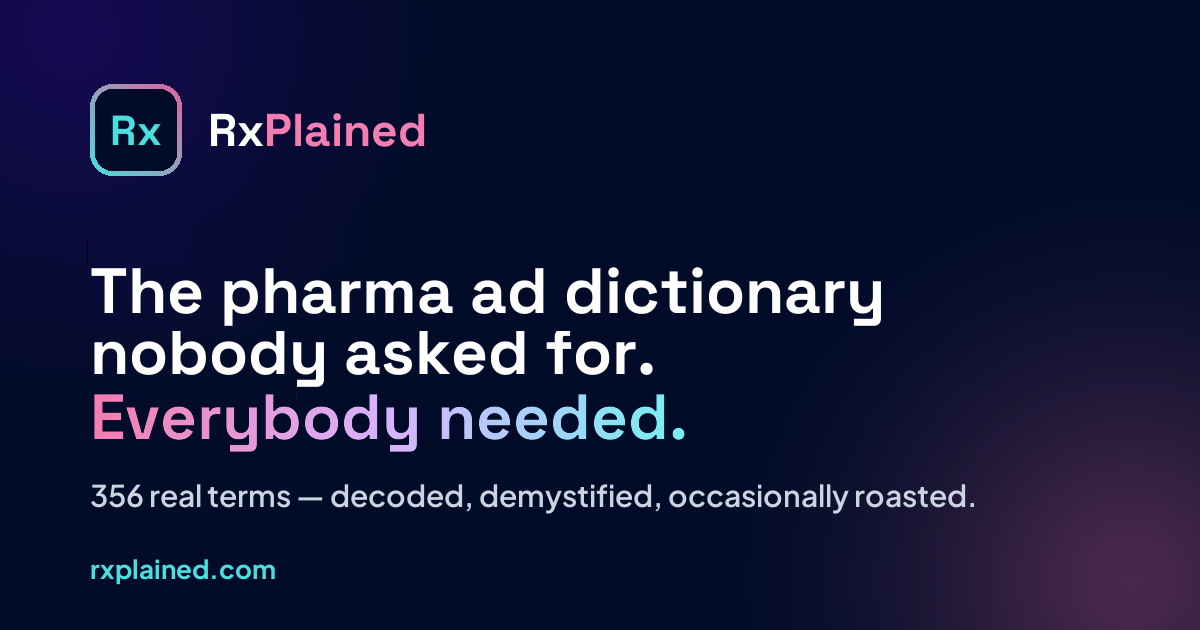
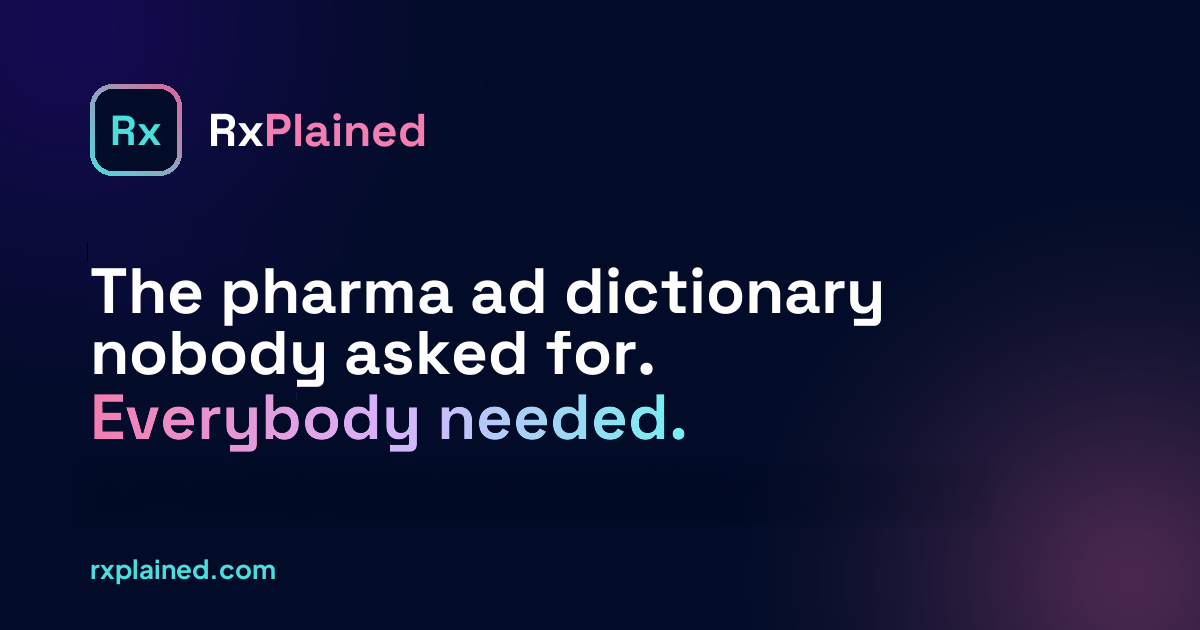
Add five post-approval labeling entries; update og-image
Added five Legal Says entries, each with aliases populated:
sNDA (Supplemental New Drug Application), CBE (Changes Being Effected),
DHCP Letter (Dear Healthcare Provider Letter), Label Carve-Out (Skinny
Label), and Class Labeling.

Checked against NDA, PI, Off Label, Hatch-Waxman Act, Authorized
Generic, Boxed Warning, and Warning Letter & Untitled Letter, plus a
full-dataset probe of every new acronym, alias, and phrase: zero hits,
no slug collisions across terms and aliases. They complement rather
than duplicate. Warning Letter and the new DHCP Letter share the word
"letter" but run in opposite directions (OPDP -> manufacturers vs.
manufacturer -> prescribers), so they stay separate.

Verified alias-driven search and 22 deep-link slugs (alias slugs,
canonical slugs, pre-existing Black Box Warning alias, bogus slug) by
capturing what jumpToTerm() resolves to. Visual scroll/highlight for
the new cards was not verified: the browser pane was hidden, so
requestAnimationFrame never fires; that code is unchanged.

images/og-image.png was hand-updated to drop the baked-in term count,
ending the recurring staleness (it had drifted to 15 terms behind).

Term count 366 -> 371. Regenerated static term pages, sw.js bumped to
v33.

Changed region(s): [[0.0617, 0.754, 0.8017, 0.8143]]

diff --git a/term/dhcp-letter-dear-healthcare-provider-letter/index.html b/term/dhcp-letter-dear-healthcare-provider-letter/index.html
@@ -1,0 +1,38 @@
+<!DOCTYPE html>
+<html lang="en">
+<head>
+<meta charset="UTF-8">
+<meta name="viewport" content="width=device-width, initial-scale=1.0">
+<title>DHCP Letter (Dear Healthcare Provider Letter) — RxPlained</title>
+<meta name="description" content="The &quot;heads up, this changed&quot; letter. When a label update carries safety news doctors need to hear right away, manufacturers contact prescribers directly instead of hoping someone notices a revised…">
+<link rel="canonical" href="https://rxplained.com/term/dhcp-letter-dear-healthcare-provider-letter/">
+<meta http-equiv="refresh" content="0; url=/#term=dhcp-letter-dear-healthcare-provider-letter">
+
+<meta property="og:type" content="website">
+<meta property="og:site_name" content="RxPlained">
+<meta property="og:title" content="DHCP Letter (Dear Healthcare Provider Letter) — RxPlained">
+<meta property="og:description" content="The &quot;heads up, this changed&quot; letter. When a label update carries safety news doctors need to hear right away, manufacturers contact prescribers directly instead of hoping someone notices a revised…">
+<meta property="og:url" content="https://rxplained.com/term/dhcp-letter-dear-healthcare-provider-letter/">
+<meta property="og:image" content="https://rxplained.com/icons/icon-512.png">
+
+<meta name="twitter:card" content="summary">
+<meta name="twitter:title" content="DHCP Letter (Dear Healthcare Provider Letter) — RxPlained">
+<meta name="twitter:description" content="The &quot;heads up, this changed&quot; letter. When a label update carries safety news doctors need to hear right away, manufacturers contact prescribers directly instead of hoping someone notices a revised…">
+<meta name="twitter:image" content="https://rxplained.com/icons/icon-512.png">
+
+<meta name="theme-color" content="#020C28">
+<link rel="icon" href="https://rxplained.com/icons/icon-192.png">
+<style>
+  body {
+    background: #020C28; color: #C4C9D4; margin: 0; padding: 24px; min-height: 100vh;
+    display: flex; align-items: center; justify-content: center; text-align: center;
+    font-family: -apple-system, BlinkMacSystemFont, "Segoe UI", sans-serif;
+  }
+  a { color: #4ADEDE; }
+</style>
+<script>location.replace("/#term=dhcp-letter-dear-healthcare-provider-letter");</script>
+</head>
+<body>
+  <p>Redirecting to <a href="/#term=dhcp-letter-dear-healthcare-provider-letter">DHCP Letter (Dear Healthcare Provider Letter)</a> on RxPlained…</p>
+</body>
+</html>

diff --git a/term/snda-supplemental-new-drug-application/index.html b/term/snda-supplemental-new-drug-application/index.html
@@ -1,0 +1,38 @@
+<!DOCTYPE html>
+<html lang="en">
+<head>
+<meta charset="UTF-8">
+<meta name="viewport" content="width=device-width, initial-scale=1.0">
+<title>sNDA (Supplemental New Drug Application) — RxPlained</title>
+<meta name="description" content="The paperwork for changing a drug that&#x27;s already approved. New indication, new dosing, new safety language: if the label is going to say something different, an sNDA is usually how it gets there.">
+<link rel="canonical" href="https://rxplained.com/term/snda-supplemental-new-drug-application/">
+<meta http-equiv="refresh" content="0; url=/#term=snda-supplemental-new-drug-application">
+
+<meta property="og:type" content="website">
+<meta property="og:site_name" content="RxPlained">
+<meta property="og:title" content="sNDA (Supplemental New Drug Application) — RxPlained">
+<meta property="og:description" content="The paperwork for changing a drug that&#x27;s already approved. New indication, new dosing, new safety language: if the label is going to say something different, an sNDA is usually how it gets there.">
+<meta property="og:url" content="https://rxplained.com/term/snda-supplemental-new-drug-application/">
+<meta property="og:image" content="https://rxplained.com/icons/icon-512.png">
+
+<meta name="twitter:card" content="summary">
+<meta name="twitter:title" content="sNDA (Supplemental New Drug Application) — RxPlained">
+<meta name="twitter:description" content="The paperwork for changing a drug that&#x27;s already approved. New indication, new dosing, new safety language: if the label is going to say something different, an sNDA is usually how it gets there.">
+<meta name="twitter:image" content="https://rxplained.com/icons/icon-512.png">
+
+<meta name="theme-color" content="#020C28">
+<link rel="icon" href="https://rxplained.com/icons/icon-192.png">
+<style>
+  body {
+    background: #020C28; color: #C4C9D4; margin: 0; padding: 24px; min-height: 100vh;
+    display: flex; align-items: center; justify-content: center; text-align: center;
+    font-family: -apple-system, BlinkMacSystemFont, "Segoe UI", sans-serif;
+  }
+  a { color: #4ADEDE; }
+</style>
+<script>location.replace("/#term=snda-supplemental-new-drug-application");</script>
+</head>
+<body>
+  <p>Redirecting to <a href="/#term=snda-supplemental-new-drug-application">sNDA (Supplemental New Drug Application)</a> on RxPlained…</p>
+</body>
+</html>

diff --git a/term/label-carve-out-skinny-label/index.html b/term/label-carve-out-skinny-label/index.html
@@ -1,0 +1,38 @@
+<!DOCTYPE html>
+<html lang="en">
+<head>
+<meta charset="UTF-8">
+<meta name="viewport" content="width=device-width, initial-scale=1.0">
+<title>Label Carve-Out (Skinny Label) — RxPlained</title>
+<meta name="description" content="A generic&#x27;s label with a few sentences deliberately missing. If the brand still holds a patent on one particular use, the generic can leave that use off its label and launch for everything else.">
+<link rel="canonical" href="https://rxplained.com/term/label-carve-out-skinny-label/">
+<meta http-equiv="refresh" content="0; url=/#term=label-carve-out-skinny-label">
+
+<meta property="og:type" content="website">
+<meta property="og:site_name" content="RxPlained">
+<meta property="og:title" content="Label Carve-Out (Skinny Label) — RxPlained">
+<meta property="og:description" content="A generic&#x27;s label with a few sentences deliberately missing. If the brand still holds a patent on one particular use, the generic can leave that use off its label and launch for everything else.">
+<meta property="og:url" content="https://rxplained.com/term/label-carve-out-skinny-label/">
+<meta property="og:image" content="https://rxplained.com/icons/icon-512.png">
+
+<meta name="twitter:card" content="summary">
+<meta name="twitter:title" content="Label Carve-Out (Skinny Label) — RxPlained">
+<meta name="twitter:description" content="A generic&#x27;s label with a few sentences deliberately missing. If the brand still holds a patent on one particular use, the generic can leave that use off its label and launch for everything else.">
+<meta name="twitter:image" content="https://rxplained.com/icons/icon-512.png">
+
+<meta name="theme-color" content="#020C28">
+<link rel="icon" href="https://rxplained.com/icons/icon-192.png">
+<style>
+  body {
+    background: #020C28; color: #C4C9D4; margin: 0; padding: 24px; min-height: 100vh;
+    display: flex; align-items: center; justify-content: center; text-align: center;
+    font-family: -apple-system, BlinkMacSystemFont, "Segoe UI", sans-serif;
+  }
+  a { color: #4ADEDE; }
+</style>
+<script>location.replace("/#term=label-carve-out-skinny-label");</script>
+</head>
+<body>
+  <p>Redirecting to <a href="/#term=label-carve-out-skinny-label">Label Carve-Out (Skinny Label)</a> on RxPlained…</p>
+</body>
+</html>

diff --git a/term/cbe-changes-being-effected/index.html b/term/cbe-changes-being-effected/index.html
@@ -1,0 +1,38 @@
+<!DOCTYPE html>
+<html lang="en">
+<head>
+<meta charset="UTF-8">
+<meta name="viewport" content="width=device-width, initial-scale=1.0">
+<title>CBE (Changes Being Effected) — RxPlained</title>
+<meta name="description" content="The fast lane for safety label updates. When new safety information turns up, a manufacturer can put the change on the label as soon as FDA receives the supplement, without waiting for approval. FDA…">
+<link rel="canonical" href="https://rxplained.com/term/cbe-changes-being-effected/">
+<meta http-equiv="refresh" content="0; url=/#term=cbe-changes-being-effected">
+
+<meta property="og:type" content="website">
+<meta property="og:site_name" content="RxPlained">
+<meta property="og:title" content="CBE (Changes Being Effected) — RxPlained">
+<meta property="og:description" content="The fast lane for safety label updates. When new safety information turns up, a manufacturer can put the change on the label as soon as FDA receives the supplement, without waiting for approval. FDA…">
+<meta property="og:url" content="https://rxplained.com/term/cbe-changes-being-effected/">
+<meta property="og:image" content="https://rxplained.com/icons/icon-512.png">
+
+<meta name="twitter:card" content="summary">
+<meta name="twitter:title" content="CBE (Changes Being Effected) — RxPlained">
+<meta name="twitter:description" content="The fast lane for safety label updates. When new safety information turns up, a manufacturer can put the change on the label as soon as FDA receives the supplement, without waiting for approval. FDA…">
+<meta name="twitter:image" content="https://rxplained.com/icons/icon-512.png">
+
+<meta name="theme-color" content="#020C28">
+<link rel="icon" href="https://rxplained.com/icons/icon-192.png">
+<style>
+  body {
+    background: #020C28; color: #C4C9D4; margin: 0; padding: 24px; min-height: 100vh;
+    display: flex; align-items: center; justify-content: center; text-align: center;
+    font-family: -apple-system, BlinkMacSystemFont, "Segoe UI", sans-serif;
+  }
+  a { color: #4ADEDE; }
+</style>
+<script>location.replace("/#term=cbe-changes-being-effected");</script>
+</head>
+<body>
+  <p>Redirecting to <a href="/#term=cbe-changes-being-effected">CBE (Changes Being Effected)</a> on RxPlained…</p>
+</body>
+</html>

diff --git a/term/class-labeling/index.html b/term/class-labeling/index.html
@@ -1,0 +1,38 @@
+<!DOCTYPE html>
+<html lang="en">
+<head>
+<meta charset="UTF-8">
+<meta name="viewport" content="width=device-width, initial-scale=1.0">
+<title>Class Labeling — RxPlained</title>
+<meta name="description" content="When one drug&#x27;s problem becomes every drug&#x27;s label. If FDA decides a safety issue applies across a whole drug class, every product in that class carries the same warning language, brand or not.">
+<link rel="canonical" href="https://rxplained.com/term/class-labeling/">
+<meta http-equiv="refresh" content="0; url=/#term=class-labeling">
+
+<meta property="og:type" content="website">
+<meta property="og:site_name" content="RxPlained">
+<meta property="og:title" content="Class Labeling — RxPlained">
+<meta property="og:description" content="When one drug&#x27;s problem becomes every drug&#x27;s label. If FDA decides a safety issue applies across a whole drug class, every product in that class carries the same warning language, brand or not.">
+<meta property="og:url" content="https://rxplained.com/term/class-labeling/">
+<meta property="og:image" content="https://rxplained.com/icons/icon-512.png">
+
+<meta name="twitter:card" content="summary">
+<meta name="twitter:title" content="Class Labeling — RxPlained">
+<meta name="twitter:description" content="When one drug&#x27;s problem becomes every drug&#x27;s label. If FDA decides a safety issue applies across a whole drug class, every product in that class carries the same warning language, brand or not.">
+<meta name="twitter:image" content="https://rxplained.com/icons/icon-512.png">
+
+<meta name="theme-color" content="#020C28">
+<link rel="icon" href="https://rxplained.com/icons/icon-192.png">
+<style>
+  body {
+    background: #020C28; color: #C4C9D4; margin: 0; padding: 24px; min-height: 100vh;
+    display: flex; align-items: center; justify-content: center; text-align: center;
+    font-family: -apple-system, BlinkMacSystemFont, "Segoe UI", sans-serif;
+  }
+  a { color: #4ADEDE; }
+</style>
+<script>location.replace("/#term=class-labeling");</script>
+</head>
+<body>
+  <p>Redirecting to <a href="/#term=class-labeling">Class Labeling</a> on RxPlained…</p>
+</body>
+</html>

diff --git a/index.html b/index.html
@@ -10,7 +10,7 @@
 <meta property="og:type" content="website">
 <meta property="og:site_name" content="RxPlained">
 <meta property="og:title" content="RxPlained — The Pharma Advertising Dictionary">
-<meta property="og:description" content="366 real terms — decoded, demystified, occasionally roasted.">
+<meta property="og:description" content="371 real terms — decoded, demystified, occasionally roasted.">
 <meta property="og:url" content="https://rxplained.com/">
 <meta property="og:image" content="https://rxplained.com/images/og-image.png">
 <meta property="og:image:width" content="1200">
@@ -18,7 +18,7 @@
 
 <meta name="twitter:card" content="summary_large_image">
 <meta name="twitter:title" content="RxPlained — The Pharma Advertising Dictionary">
-<meta name="twitter:description" content="366 real terms — decoded, demystified, occasionally roasted.">
+<meta name="twitter:description" content="371 real terms — decoded, demystified, occasionally roasted.">
 <meta name="twitter:image" content="https://rxplained.com/images/og-image.png">
 
 <title>RxPlained — The Pharma Advertising Dictionary</title>
@@ -99,7 +99,7 @@
   <section class="text-center space-y-6 max-w-3xl mx-auto">
     <div class="inline-flex items-center gap-2 px-3.5 py-1.5 rounded-full bg-navy-900 border border-teal-400/30 text-teal-300 text-xs font-mono tracking-wide uppercase">
       <span class="w-2 h-2 rounded-full bg-teal-400 motion-safe:animate-pulse" aria-hidden="true"></span>
-      <span>366 Rx Terms Decoded &amp; Deconstructed</span>
+      <span>371 Rx Terms Decoded &amp; Deconstructed</span>
     </div>
 
     <h1 class="text-3xl sm:text-5xl font-display font-extrabold text-white tracking-tight leading-tight">
@@ -107,7 +107,7 @@
       <span class="bg-gradient-to-r from-pink-400 via-purple-300 to-teal-300 bg-clip-text text-transparent">Everybody needed.</span>
     </h1>
     <p class="text-slate-300 text-base sm:text-lg leading-relaxed">
-      366 real terms — decoded, demystified, occasionally roasted.
+      371 real terms — decoded, demystified, occasionally roasted.
     </p>
 
     <div class="relative text-left max-w-2xl mx-auto mt-6">

diff --git a/sw.js b/sw.js
@@ -1,4 +1,4 @@
-const CACHE_NAME = 'rxplained-v32';
+const CACHE_NAME = 'rxplained-v33';
 const APP_SHELL = [
   './',
   './index.html',

diff --git a/README.md b/README.md
@@ -1,6 +1,6 @@
 # RxPlained
 
-The pharmaceutical advertising dictionary — 366 terms from inside the industry, decoded with a sense of humor. Search, browse by category, and get a new Word of the Day, every day, automatically.
+The pharmaceutical advertising dictionary — 371 terms from inside the industry, decoded with a sense of humor. Search, browse by category, and get a new Word of the Day, every day, automatically.
 
 ## What's here
 
@@ -9,7 +9,7 @@ rxplained/
 ├── index.html          # App shell — markup + Tailwind CDN config
 ├── css/styles.css       # Custom layer Tailwind can't do: glass panels, orbs, focus ring, reduced-motion override
 ├── js/app.js             # RxPlainedApp class — search (Fuse.js), filtering, Cmd+K palette, Word of the Day
-├── data/terms.json      # The 366-term dataset — source of truth
+├── data/terms.json      # The 371-term dataset — source of truth
 ├── scripts/
 │   └── generate_term_pages.py  # Generates term/, sitemap.xml, robots.txt from terms.json — see below
 ├── term/                 # Generated — one static shim page per term, for social-preview crawlers
@@ -104,6 +104,10 @@ Valid `category` values: `Doctor Speak`, `Money Talk`, `Legal Says`, `Behind the
 
 **365 → 366, September 2026**: added `RTE (Rep-Triggered Email)` (Behind the Ad) — the automated, rep-initiated follow-up email. Checked against the two nearest existing concepts: `NPP (Nonpersonal Promotion)` is specifically promotion *without* rep involvement (the opposite premise), and `Closed-Loop Marketing (CLM)` is the broader multi-channel data-feedback loop, not this specific mechanism. `RTE` had zero mentions anywhere in the dataset.
 
+**366 → 371, September 2026**: added five post-approval labeling entries, all Legal Says — `sNDA (Supplemental New Drug Application)`, `CBE (Changes Being Effected)`, `DHCP Letter (Dear Healthcare Provider Letter)`, `Label Carve-Out (Skinny Label)`, and `Class Labeling` — each with `aliases` populated (the field was already live in the schema). Checked against the seven neighbors named in the request plus a full-dataset probe of every new acronym, alias, and key phrase (`sNDA`, `sBLA`, `CBE`, `DHCP`, `skinny`, `carve-out`, `section viii`, `class labeling`, …): zero hits anywhere, and no slug collisions across terms *and* aliases, either against existing entries or among the five. They complement rather than duplicate: `NDA` is the original application and never mentions supplements; `PI` is the document these changes edit; `Hatch-Waxman Act` covers the ANDA pathway and patent term extensions but not the section viii mechanism the skinny-label entry explains; `Authorized Generic` (Money Talk, not Legal Says) is a brand selling its own drug as a generic, unrelated to a generic's carved-out label. **One near-miss worth knowing**: `Warning Letter & Untitled Letter` and the new `DHCP Letter` share the word "letter" but run in opposite directions — OPDP enforcement correspondence *to* manufacturers about promotion, versus a manufacturer's safety communication *to* prescribers. Kept separate. **Noted, not acted on**: three aliases (`DHCP`, `dear healthcare provider letter`, `skinny label`) are already substrings of their own term names, so they're redundant for search — but they still matter for deep links, since `checkDeepLink()` matches alias slugs exactly and those slugs differ from the term slugs. Also, bare `DHCP` would collide with the networking protocol if unrelated content is ever added; same standing note as `NBA` — resolve with a `DHCP — Which One?` entry, not by aliasing.
+
+**`images/og-image.png` no longer bakes in a term count, September 2026**: the social-preview image was hand-updated to drop the "N real terms" line entirely (it had drifted from 356 to 15 terms behind the real count), which resolves the recurring-staleness gap flagged in the 356 → 357 note above. Going forward, adding a term no longer requires regenerating the image — only the count in `index.html`'s `og:description`/`twitter:description` meta text and hero copy still needs the usual bump. The new file is still 1200×630. Minor cosmetic note: it has a stray 1px near-black vertical mark just left of the headline (~x=87, y=242–262), nearly invisible against the navy background; worth a retouch when convenient.
+
 ## Interface
 
 - **Word of the Day** and every term card show both sides at once — 🎭 The Pitch (the playful, roasted take) and 📋 The Reality (the official definition) — side by side on desktop, stacked on mobile. No click needed to see the full definition.
@@ -131,7 +135,7 @@ Google Analytics 4 (measurement ID `G-N4ED2WXE30`), consent-gated — nothing lo
 ## Known gaps before public launch
 
 - **Tailwind CDN and full offline support don't fully coexist.** `cdn.tailwindcss.com` doesn't send CORS headers for `fetch()`/`cache.addAll()` (only plain `<script src>` loading works cross-origin without them), so the service worker can't precache it — trying to include it in the precache list made the *entire* install step fail silently (`cache.addAll` is all-or-nothing), which is worth knowing if this area gets touched again. Everything else (HTML, JS, data, fonts, Fuse, confetti) is cached and works offline after first visit; Tailwind's utility CSS itself needs network access, so styling degrades if the user is fully offline.
-- **Category balance**: current breakdown is Behind the Ad 148, Doctor Speak 93, Money Talk 53, Legal Says 49, Ask Your Doctor 23. "Ask Your Doctor" (DTC/consumer culture) remains the smallest category by a wide margin — 6.3% of the dataset, up slightly from 6.0% at the original 283-entry baseline (17/283 → 23/366), so the correction passes haven't changed the underlying imbalance in any meaningful way. Accurate to the source material, but worth a dedicated content pass if DTC/consumer-facing content is meant to be a bigger part of the product.
+- **Category balance**: current breakdown is Behind the Ad 148, Doctor Speak 93, Money Talk 53, Legal Says 54, Ask Your Doctor 23. "Ask Your Doctor" (DTC/consumer culture) remains the smallest category by a wide margin — 6.2% of the dataset, up slightly from 6.0% at the original 283-entry baseline (17/283 → 23/371), so the correction passes haven't changed the underlying imbalance in any meaningful way. Accurate to the source material, but worth a dedicated content pass if DTC/consumer-facing content is meant to be a bigger part of the product.
 - **Icons** are a placeholder monogram, not final brand artwork — swap `icons/icon-192.png` and `icons/icon-512.png` before shipping.
 - **Social preview image**: the homepage has a real branded 1200×630 image (`images/og-image.png`, added August 2026), but per-term OG/Twitter tags still reuse `icon-512.png` (square) as a stopgap — a square image gets cropped oddly in a wide `summary_large_image`-style card. Worth swapping the per-term pages to reuse `images/og-image.png` (or a per-term-branded variant) — update the image URL in `scripts/generate_term_pages.py` and regenerate.
 - **Text-to-speech** relies on the browser's built-in `speechSynthesis` — not universal (no support shows a toast instead of failing silently), and voice quality varies by OS/browser.
